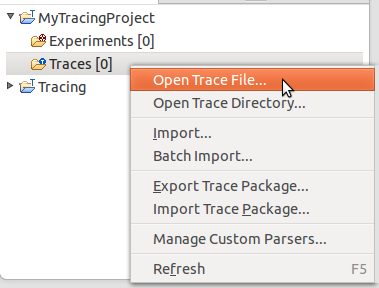
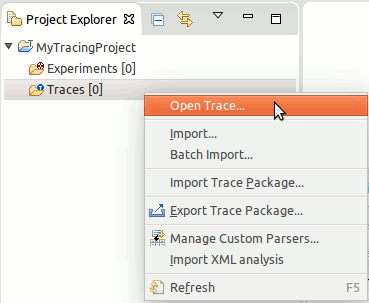
tmf: remove open trace directory and use open trace file instead
For directory traces like CTF the user has to select one of the
files of the directory trace. The open procedure will first verify
that the parent directory is a valid directory trace. If yes, then it
will be opened with the corresponding trace type. To cover the index
file of CTF which is in a subdirectory of the trace directory, also
the grandparent directory of the selected file will be checked for
a directory trace type. If neither parent or grandparent directory
is a valid directory the file will be imported as before.

diff --git a/lttng/org.eclipse.linuxtools.tmf.ui/src/org/eclipse/linuxtools/tmf/ui/project/model/TmfOpenTraceHelper.java b/lttng/org.eclipse.linuxtools.tmf.ui/src/org/eclipse/linuxtools/tmf/ui/project/model/TmfOpenTraceHelper.java
@@ -10,6 +10,7 @@
  *   Matthew Khouzam - Initial API and implementation
  *   Patrick Tasse - Update open trace and add open experiment
  *   Geneviève Bastien - Merge methods to open trace and experiments
+ *   Bernd Hufmann - Updated handling of directory traces
  **********************************************************************/
 
 package org.eclipse.linuxtools.tmf.ui.project.model;
@@ -32,6 +33,7 @@ import org.eclipse.linuxtools.tmf.core.TmfCommonConstants;
 import org.eclipse.linuxtools.tmf.core.event.ITmfEvent;
 import org.eclipse.linuxtools.tmf.core.exceptions.TmfTraceException;
 import org.eclipse.linuxtools.tmf.core.project.model.TmfTraceImportException;
+import org.eclipse.linuxtools.tmf.core.project.model.TmfTraceType;
 import org.eclipse.linuxtools.tmf.core.project.model.TraceTypeHelper;
 import org.eclipse.linuxtools.tmf.core.trace.ITmfTrace;
 import org.eclipse.linuxtools.tmf.core.trace.TmfExperiment;
@@ -108,21 +110,23 @@ public class TmfOpenTraceHelper {
      * @since 3.0
      */
     public static IStatus openTraceFromPath(TmfTraceFolder destinationFolder, String path, Shell shell, String tracetypeHint) throws CoreException {
+        final String pathToUse = checkTracePath(path);
         TraceTypeHelper traceTypeToSet = null;
         try {
-            traceTypeToSet = TmfTraceTypeUIUtils.selectTraceType(path, null, tracetypeHint);
+          traceTypeToSet = TmfTraceTypeUIUtils.selectTraceType(pathToUse, null, tracetypeHint);
         } catch (TmfTraceImportException e) {
             MessageBox mb = new MessageBox(shell);
             mb.setMessage(e.getMessage());
             mb.open();
             return new Status(IStatus.ERROR, Activator.PLUGIN_ID, e.getMessage());
         }
+
         IFolder folder = destinationFolder.getResource();
-        String traceName = getTraceName(path, folder);
-        if (traceExists(path, folder)) {
+        String traceName = getTraceName(pathToUse, folder);
+        if (traceExists(pathToUse, folder)) {
             return openTraceFromFolder(destinationFolder, traceName);
         }
-        final IPath pathString = Path.fromOSString(path);
+        final IPath pathString = Path.fromOSString(pathToUse);
         IResource linkedTrace = TmfImportHelper.createLink(folder, pathString, traceName);
 
         if (linkedTrace == null || !linkedTrace.exists()) {
@@ -130,7 +134,7 @@ public class TmfOpenTraceHelper {
                     Messages.TmfOpenTraceHelper_LinkFailed);
         }
 
-        String sourceLocation = URIUtil.toUnencodedString(new File(path).toURI());
+        String sourceLocation = URIUtil.toUnencodedString(pathString.toFile().toURI());
         linkedTrace.setPersistentProperty(TmfCommonConstants.SOURCE_LOCATION, sourceLocation);
 
         // No trace type was determined.
@@ -143,6 +147,36 @@ public class TmfOpenTraceHelper {
             ret = openTraceFromFolder(destinationFolder, traceName);
         }
         return ret;
+    }
+
+    /**
+     * Checks whether the parent or grandparent of given path to a file is a
+     * valid directory trace. If it is a directory trace then return the parent
+     * or grandparent path.
+     *
+     * @param path
+     *            the path to check
+     * @return path to use for trace type validation.
+     */
+    private static String checkTracePath(String path) {
+        File file = new File(path);
+        if (file.exists() && !file.isDirectory()) {
+            // First check parent
+            File parent = file.getParentFile();
+            String pathToUse = parent.getAbsolutePath();
+            if (TmfTraceType.getInstance().isDirectoryTrace(pathToUse)) {
+                return pathToUse;
+            }
+            // Second check grandparent
+            File grandParent = parent.getParentFile();
+            if (grandParent != null) {
+                pathToUse = grandParent.getAbsolutePath();
+                if (TmfTraceType.getInstance().isDirectoryTrace(pathToUse)) {
+                    return pathToUse;
+                }
+            }
+        }
+        return path;
     }
 
     private static boolean traceExists(String path, IFolder folder) {

diff --git a/lttng/org.eclipse.linuxtools.tmf.ui/src/org/eclipse/linuxtools/internal/tmf/ui/commands/OpenFileHandler.java b/lttng/org.eclipse.linuxtools.tmf.ui/src/org/eclipse/linuxtools/internal/tmf/ui/commands/OpenFileHandler.java
@@ -15,9 +15,16 @@ package org.eclipse.linuxtools.internal.tmf.ui.commands;
 
 import org.eclipse.core.commands.AbstractHandler;
 import org.eclipse.core.commands.ExecutionEvent;
+import org.eclipse.core.resources.IProject;
 import org.eclipse.core.runtime.CoreException;
+import org.eclipse.core.runtime.NullProgressMonitor;
+import org.eclipse.jface.viewers.ISelection;
+import org.eclipse.jface.viewers.IStructuredSelection;
 import org.eclipse.linuxtools.internal.tmf.ui.Activator;
+import org.eclipse.linuxtools.tmf.core.TmfCommonConstants;
 import org.eclipse.linuxtools.tmf.ui.project.model.TmfOpenTraceHelper;
+import org.eclipse.linuxtools.tmf.ui.project.model.TmfProjectElement;
+import org.eclipse.linuxtools.tmf.ui.project.model.TmfProjectRegistry;
 import org.eclipse.linuxtools.tmf.ui.project.model.TmfTraceFolder;
 import org.eclipse.swt.widgets.FileDialog;
 import org.eclipse.swt.widgets.Shell;
@@ -33,6 +40,12 @@ public class OpenFileHandler extends AbstractHandler {
 
     @Override
     public Object execute(ExecutionEvent event) {
+
+        ISelection currentSelection = HandlerUtil.getCurrentSelection(event);
+        // Menu Selection is not null for context-sensitive menu
+        ISelection menuSelection  = HandlerUtil.getActiveMenuSelection(event);
+
+        // Get trace path
         final Shell shell = PlatformUI.getWorkbench().getActiveWorkbenchWindow().getShell();
         FileDialog fd = new FileDialog(shell);
         fd.setText(Messages.OpenFileHandler_SelectTraceFile);
@@ -42,7 +55,21 @@ public class OpenFileHandler extends AbstractHandler {
         }
 
         try {
-            TmfTraceFolder destinationFolder = TmfHandlerUtil.getTraceFolderFromSelection(HandlerUtil.getCurrentSelection(event));
+
+            TmfTraceFolder destinationFolder;
+
+            if ((menuSelection != null) && (currentSelection instanceof IStructuredSelection)) {
+                // If handler is called from the context sensitive menu of a tracing project import to
+                // the traces folder from this project
+                destinationFolder = TmfHandlerUtil.getTraceFolderFromSelection(currentSelection);
+            } else {
+                // If handler is called from file menu import into default tracing project
+                IProject project = TmfProjectRegistry.createProject(
+                        TmfCommonConstants.DEFAULT_TRACE_PROJECT_NAME, null, new NullProgressMonitor());
+                TmfProjectElement projectElement = TmfProjectRegistry.getProject(project, true);
+                destinationFolder = projectElement.getTracesFolder();
+            }
+
             TmfOpenTraceHelper.openTraceFromPath(destinationFolder, filePath, shell);
         } catch (CoreException e) {
             Activator.getDefault().logError(e.getMessage(), e);
